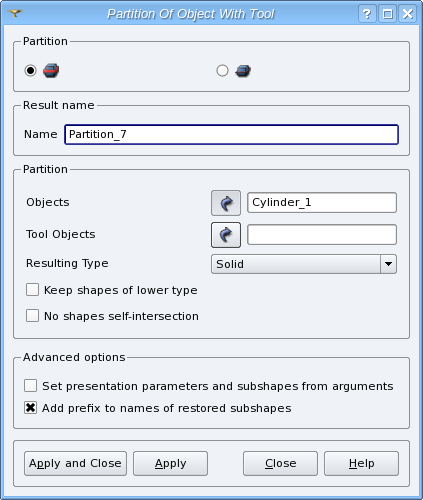
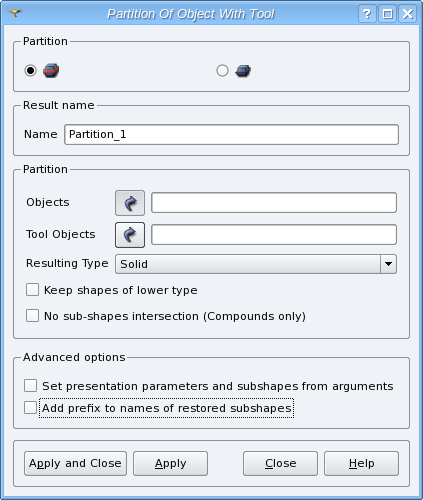
0021008: EDF 1581 GEOM : Bad result in the partition of a compound with a plane

diff --git a/src/GEOMGUI/GEOM_msg_en.ts b/src/GEOMGUI/GEOM_msg_en.ts
@@ -3787,7 +3787,7 @@ Please, select face, shell or solid and try again</translation>
     </message>
     <message>
         <source>GEOM_NO_SELF_INTERSECTION</source>
-        <translation>No shapes self-intersection</translation>
+        <translation>No sub-shapes intersection (Compounds only)</translation>
     </message>
     <message>
         <source>GEOM_CENTER_2POINTS</source>
